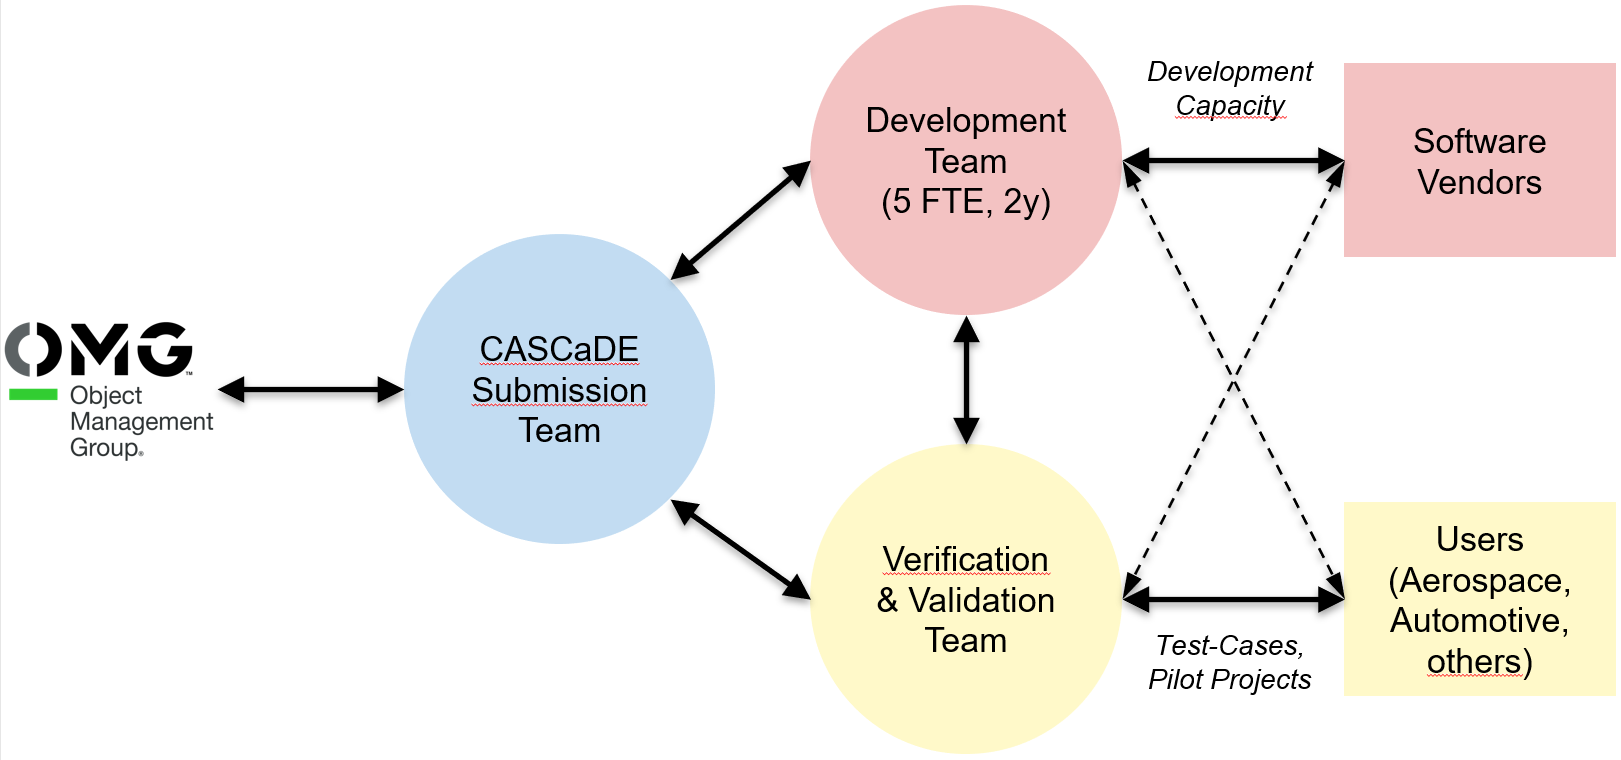
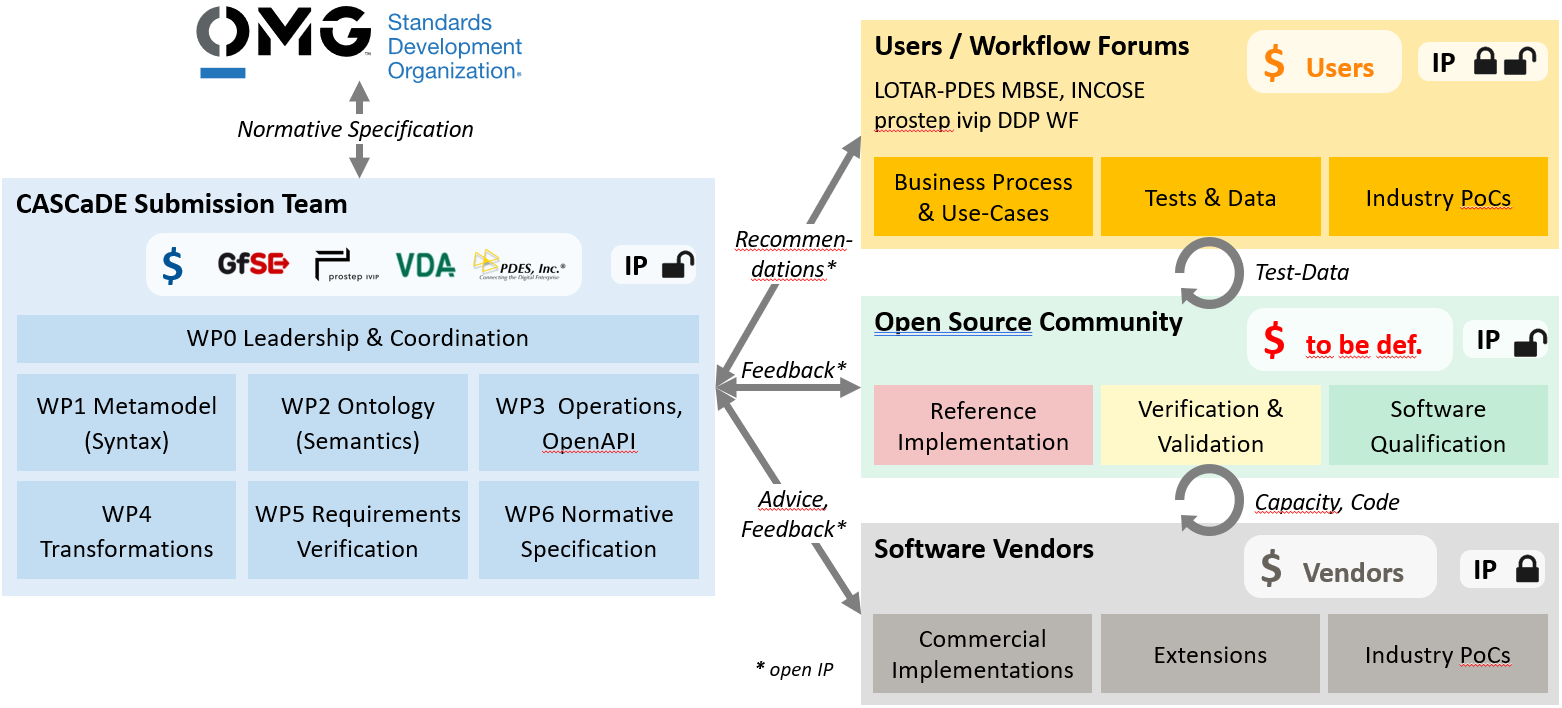
update project organization chapter (with diagram)

diff --git a/project/index.md b/project/index.md
@@ -18,12 +18,13 @@ Certification is needed later on once the standard is established and software p
 
 <img src="../assets/images/CASCaDE Focus Areas.png" alt="CASCaDE Focus Areas" />
 
-## Teams
+## Organization
 
-Three teams are responsible for the focus areas. It is important that a reference implementation is made available 
-and V&V is done in parallel to preparing the standard. 
+The normative specification will be prepared by the Submission Team. 
+To assure usefulness and quality of the standard, it is important that verification and validation (V&V) is done in parallel.
+A publicly available reference implementation is best suited for V&V. 
 
-It‘s about collaboration, so let‘s collaborate.
+It's about collaboration, so let's collaborate.
 
 <img src="../assets/images/CASCaDE Project Organization.png" alt="CASCaDE Project Organization" />
 
